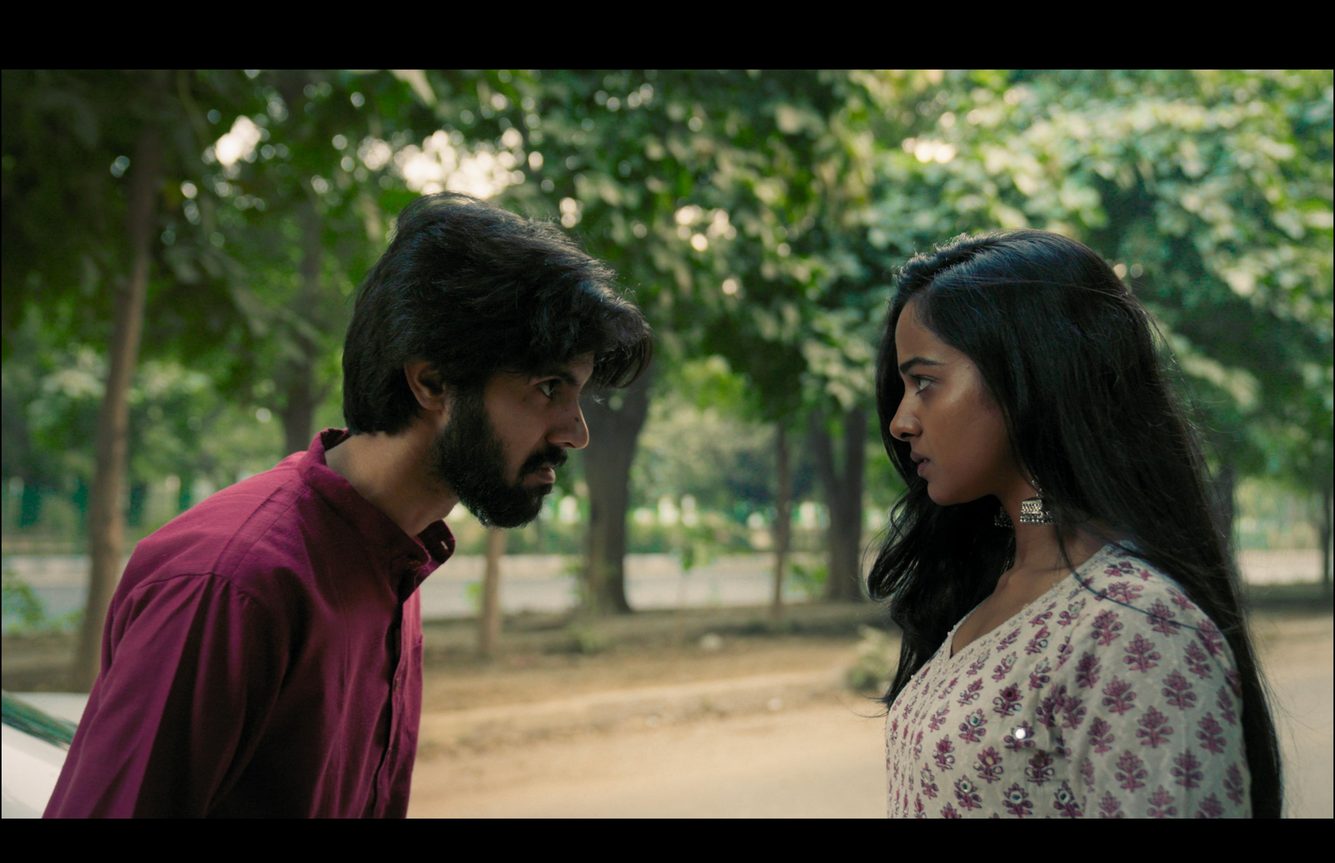
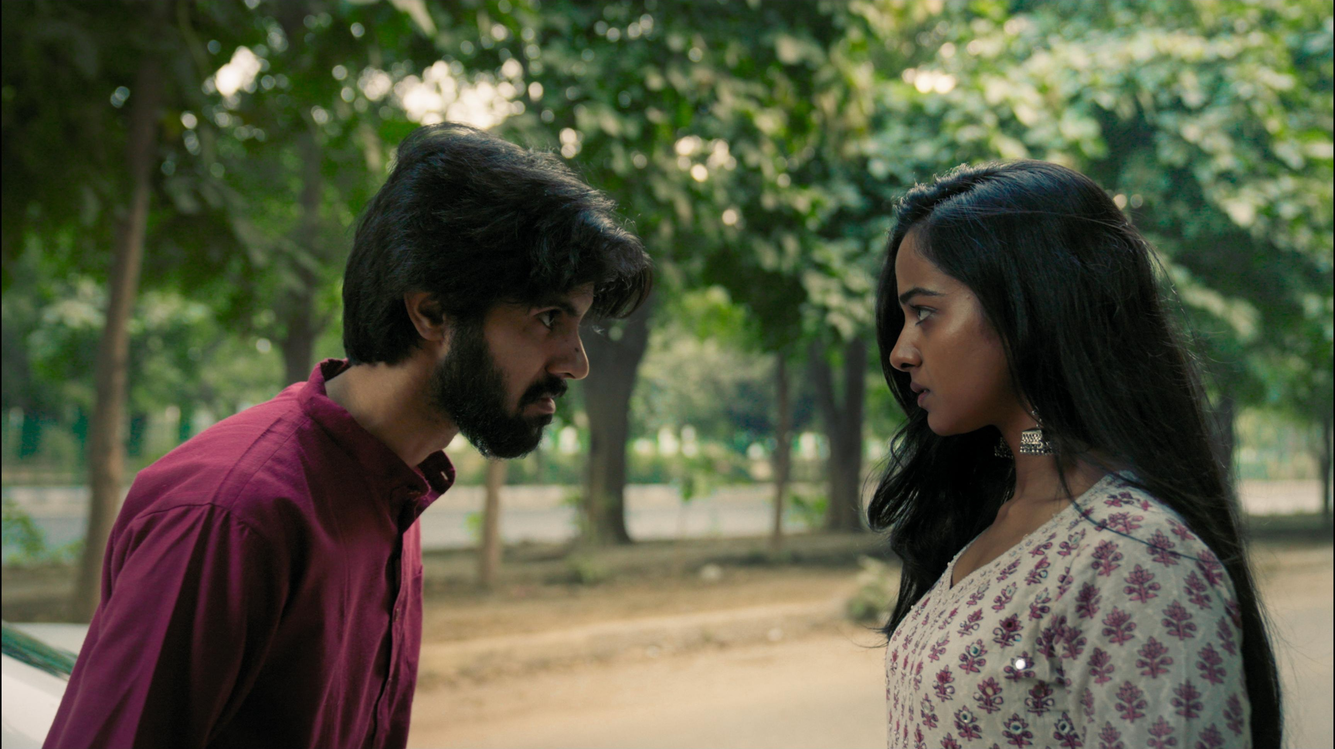
Trim the letterbox off six Diwali frames, and delete both corrections
Six of the ten new stills carried bars burned into the file, in three
proportions — 180/115 on 01, a 66/42 downscale of it on 02, 146/144 on 03,
06 and 07, and 422/355 on 08. Every boundary was a hard step, which is what
separates a bar from a dark scene edge: 3.3 -> 88.1 at 01's top, 0.0 ->
121.3 at 03's, 114.5 -> 1.8 at 01's bottom. Cut there, losslessly for the
PNGs and at q0.98 for the two JPEGs.

  01  3456x2234 -> 3456x1939   1.7824
  02  1280x827  -> 1280x719    1.7803
  03  3456x2234 -> 3456x1944   1.7778
  06  3456x2234 -> 3456x1944   1.7778
  07  3456x2234 -> 3456x1944   1.7778
  08  3420x2214 -> 3420x1437   2.3800

THIS DELETES TWO TABLE ENTRIES RATHER THAN REWRITING THEM, which is the
whole reason for cutting the files instead of extending the tables.

FRAME_CROP is now empty. Every frame is 1.7778 or wider, so a 16:9 box has
NO vertical overflow for any of them and object-position has nothing to
move: measured on the rendered work page, overY is 0 on all ten and
object-position reads back the default 50% 50%. The old 61.2% was exact for
01 and 02 and left 2.4px of black under 03, 06 and 07; 08 was beyond any
value it could hold, a 2.38 picture in a 4:3 file showing 25.9px top and
25.2px bottom whatever the window did. Total black across the ten, measured
in a 363x204 box: 0.0px.

BED_CROP LOSES DIWALI TOO, AND I SAID IT WOULD NOT. The bed takes frame 1
only, so I reasoned the entry was safe — but frame 1 is 01.jpeg, one of the
[…]

diff --git a/src/lib/frames.ts b/src/lib/frames.ts
@@ -91,15 +91,36 @@ export function sizesFor(span: number): string {
  * window: (window top in source px) / (source height - window height in
  * source px). 50% reproduces the default exactly.
  *
- *   DIWALI  3456x2234, bars 180 top and 115 bottom, picture 180..2119.
- *   Declared 16:9, which is right — the picture alone is 3456x1939 = 1.782
- *   against 16:9's 1.778. The FILE is 1.547, so cover fits by width and the
- *   window is 3456/1.778 = 1943.8 tall against 290.2 of overflow. Centred it
- *   sat at 145.1..2088.9: 35px of the top bar still showing, and 30px of
- *   picture lost off the bottom. Centred on the picture instead, the window
- *   top is 1149.5 - 971.9 = 177.6, so 177.6 / 290.2 = 61.2%. What is left is
- *   2.4px of bar at each edge, because the window is 4.8px taller than the
- *   picture — 0.1% of the frame, sub-pixel at any size this is drawn at.
+ *   DIWALI WAS THE ONLY ENTRY AND IT IS GONE, because the files it corrected
+ *   are gone. It arrived as a single 3456x2234 frame with bars of 180 top and
+ *   115 bottom, and 61.2% put the window on the picture exactly. On
+ *   2026-09-12 it was replaced by ten stills, and that is what broke the
+ *   approach rather than any arithmetic: SIX of the ten carried bars, in
+ *   THREE different proportions — 180/115, a 66/42 downscale of the same
+ *   frame, and 146/144 on three others — and this table holds one number per
+ *   WORK. Measured on the rendered page in a 363x204 box, the inherited 61.2%
+ *   left 2.4px of black along the bottom of the three symmetric ones.
+ *
+ *   A SEVENTH WAS BEYOND ANY VALUE OF THIS TABLE, and it is the reason the
+ *   files were cut rather than the table extended. 08 was a 2.38 scope
+ *   picture inside a 3420x2214 file — a 4:3 screen grab of a letterboxed
+ *   player. In a 16:9 box the window is 1923.8 tall against a 1437 picture,
+ *   so 486.8px of bar shows WHEREVER the window sits: measured, 25.9px top
+ *   and 25.2px bottom, a quarter of the card. object-position can only move a
+ *   window, never shrink it.
+ *
+ *   So the bars were trimmed off the six files instead, with Ugam's approval,
+ *   and every frame is now 1.7778 or wider. That leaves NO vertical overflow
+ *   in a 16:9 box for any of them, which is why the table is empty rather
+ *   than rewritten: --fcy would be inert even if it were set. Trimming also
+ *   fixed 08 for free — at 3420x1437 it is simply a wide frame, and cover
+ *   crops its sides like 05, 09 and 10 already did.
+ *
+ *   THE MECHANISM STAYS, and so does the arithmetic above. Bars come back
+ *   every time a frame is exported from a player rather than a master, and
+ *   when the next one does this is where the fix is written — but trim the
+ *   file first if you can, because a trimmed frame needs no entry at all and
+ *   cannot be defeated by a picture wider than the box.
  *
  * BOOK MY YAMRAJ IS NOT IN THIS TABLE, AND THE REASON IS WORTH KEEPING. It
  * looks like a third case — 2160x4096 is 0.527 against a declared 9:16 of
@@ -130,7 +151,8 @@ export function sizesFor(span: number): string {
  * own BED_CROP in src/lib/bed.ts, and applying both would correct twice.
  */
 export const FRAME_CROP: Record<string, number> = {
-  'diwali-ke-shor-mein': 61.2,
+  /* Empty on purpose — see above. Every frame in the catalogue is currently
+     free of baked-in bars, so there is nothing to re-centre. */
 };
 
 /** `object-position` for a work's frames — the default unless it has bars. */

diff --git a/src/lib/bed.ts b/src/lib/bed.ts
@@ -69,25 +69,36 @@ export const BED_SWAPS: Record<string, string> = {
 };
 
 /**
- * TWO FRAMES CARRY LETTERBOX BARS BURNED INTO THE FILE — not a layout fault,
- * they were exported that way. Measured by walking rows in from the top and
+ * ONE FRAME CARRIES LETTERBOX BARS BURNED INTO THE FILE — not a layout fault,
+ * it was exported that way. Measured by walking rows in from the top and
  * bottom until the mean channel clears 6: Broken Reflections has 115px top and
- * bottom of 1080, and Diwali 180 top and 115 bottom of 2234 — 21.3% and 13.2%
- * of the frame. Both are wider than a tile, so object-fit: cover fits them by
- * height and the whole source height, bars included, lands in the tile.
+ * bottom of 1080 — 21.3% of the frame. It is wider than a tile, so
+ * object-fit: cover fits it by height and the whole source height, bars
+ * included, lands in the tile.
  *
- * The scale pushes the bars past the tile edge; Diwali needs a shift as well
- * because its bars are uneven, and without one the picture sits low. The factors
- * that put the bar edges exactly on the tile edges are 1.271 and 1.152, which
- * measured as a margin of 0.0 and -0.2px — right in arithmetic and one rounding
- * from showing a sliver. These carry about 1% more, the smallest that holds a
- * pixel of margin at the narrow four-column grid as well as the six-column one.
- * Nothing is gained by trimming further: the floor for a 1px margin is 1.292
- * and 1.171.
+ * The scale pushes the bars past the tile edge. The factor that puts the bar
+ * edges exactly on the tile edges is 1.271, which measured as a margin of
+ * 0.0px — right in arithmetic and one rounding from showing a sliver. This
+ * carries about 1% more, the smallest that holds a pixel of margin at the
+ * narrow four-column grid as well as the six-column one. Nothing is gained by
+ * trimming further: the floor for a 1px margin is 1.292.
+ *
+ * DIWALI WAS HERE AND IS NOT ANY MORE, AND THE REASON IS THE FILE, NOT THE
+ * TABLE. The bed takes frame 1 only — max={1} on its Still — so this entry
+ * corrected exactly one image, the 3456x2234 with bars of 180 top and 115
+ * bottom, and its uneven bars are why it needed a shift as well as a scale.
+ * On 2026-09-12 that frame was trimmed to 3456x1939, along with five others,
+ * when the work's stills were replaced; see FRAME_CROP in src/lib/frames.ts
+ * for why. A 1.175 scale and a -1.71% shift on a frame with nothing to hide
+ * is not a smaller correction, it is a 17.5% zoom into a clean picture and a
+ * shift off centre, so the entry goes rather than shrinks.
+ *
+ * IF A BED FRAME IS EVER REPLACED, CHECK THIS TABLE. An entry here is keyed to
+ * one work but describes one FILE, and nothing in the build will tell you when
+ * that file stops needing it.
  */
 export const BED_CROP: Record<string, { scale: number; shiftY: number }> = {
   'broken-reflections': { scale: 1.29, shiftY: 0 },
-  'diwali-ke-shor-mein': { scale: 1.175, shiftY: -1.71 },
 };
 
 /**
